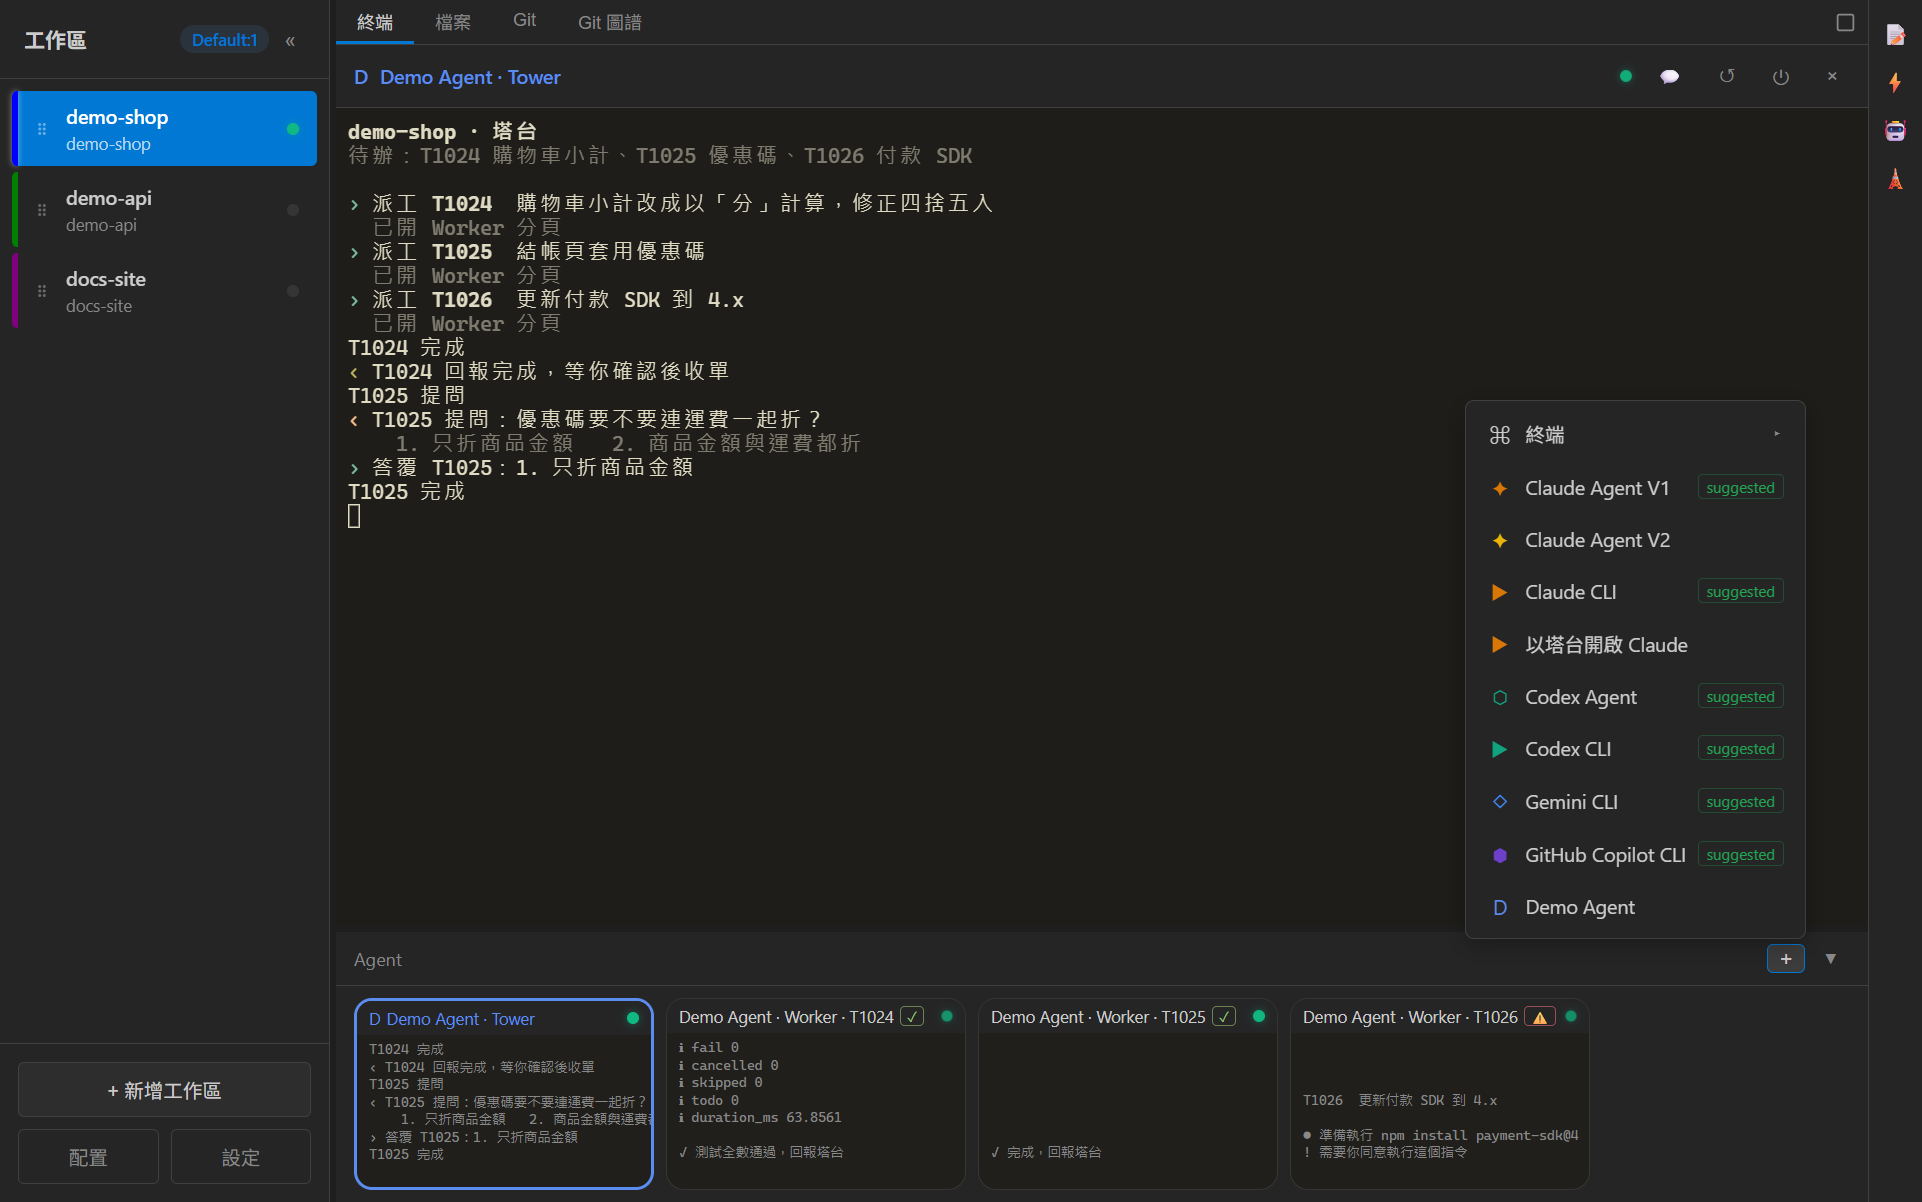
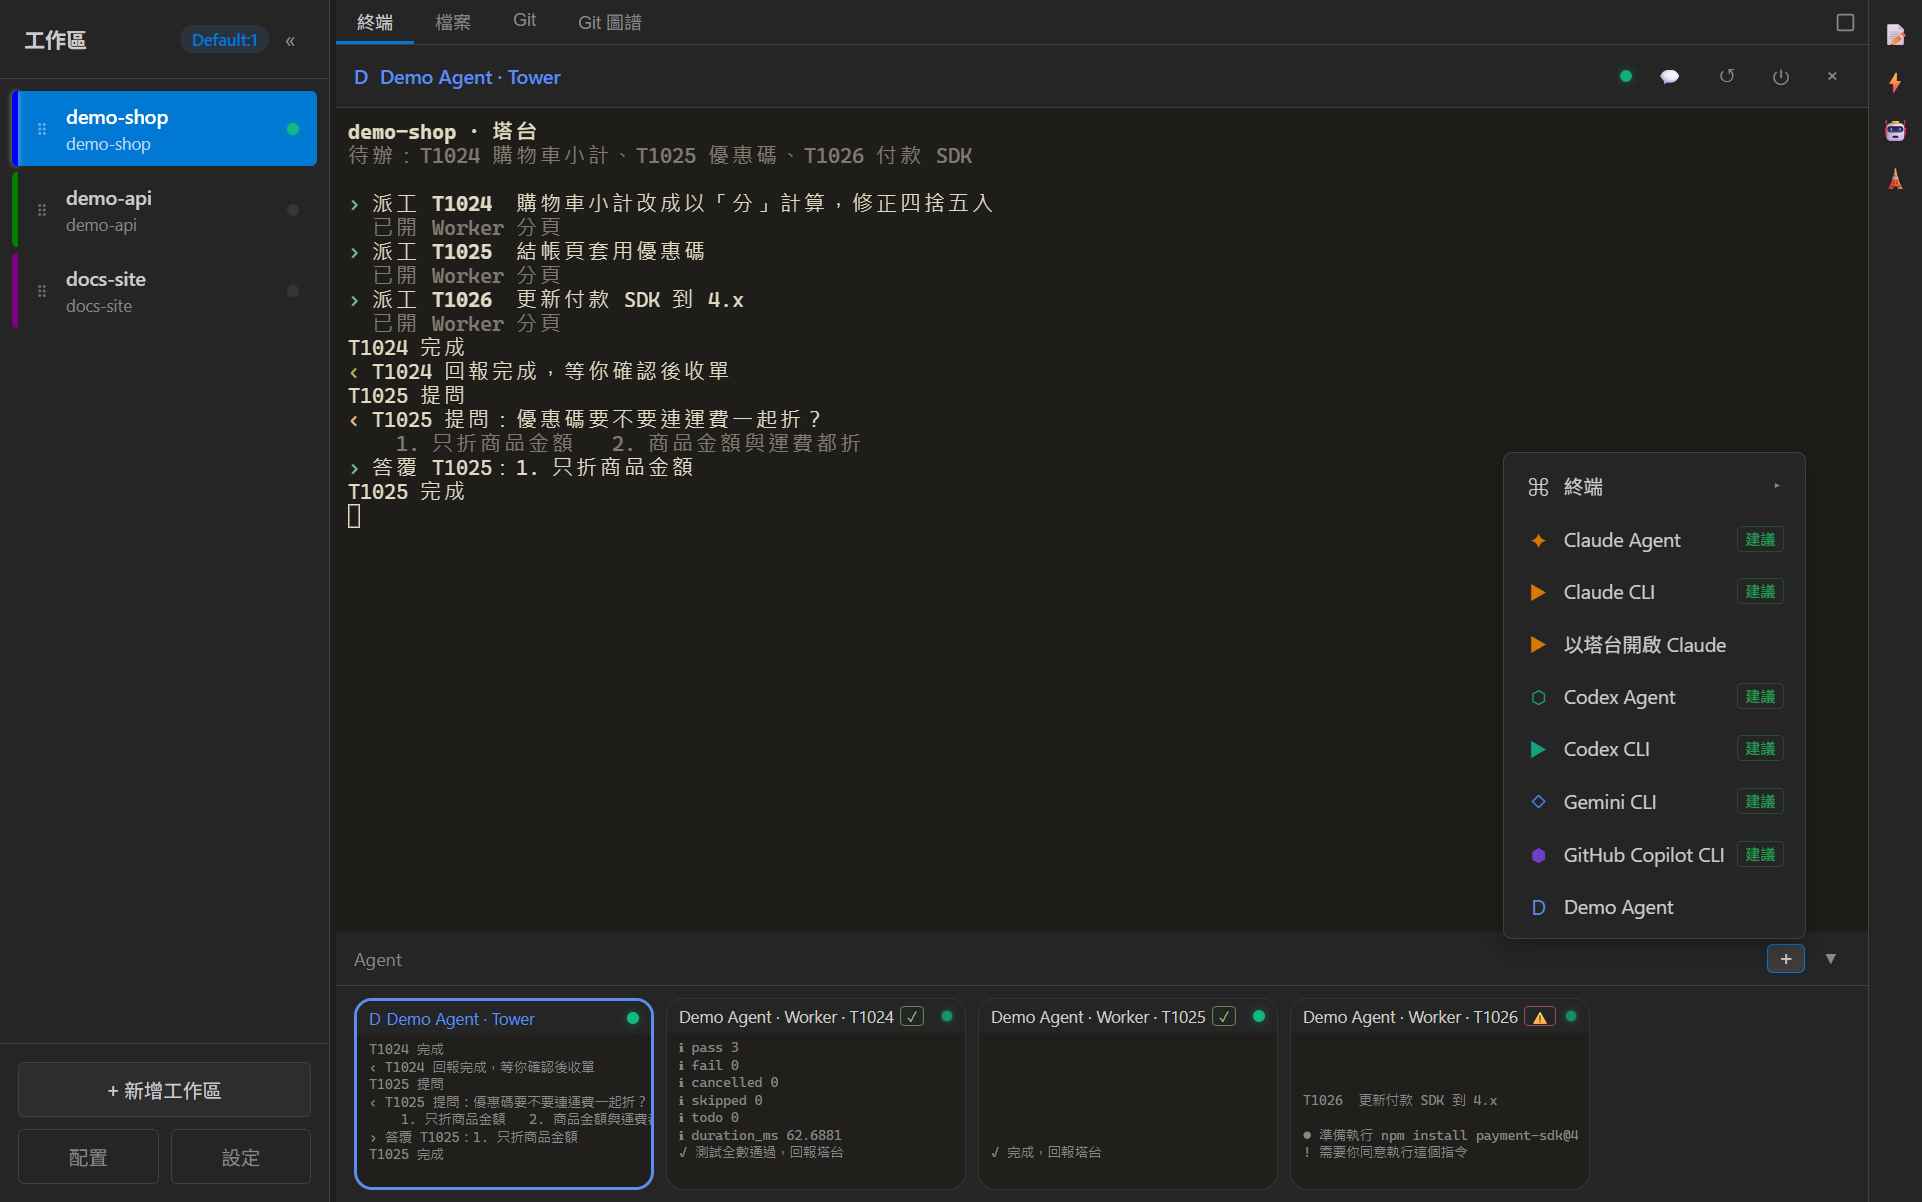
docs: CHANGELOG Unreleased entry for the Claude Agent rename, retake agents-menu screenshot (T0723)

diff --git a/CHANGELOG.md b/CHANGELOG.md
@@ -4,6 +4,9 @@ All notable changes to Better Agent Terminal are documented in this file.
 
 ## [Unreleased]
 
+### Changed
+- 「Claude Agent V1」改名為「Claude Agent」（worktree 版為「Claude Agent (Worktree)」），V2 下架後不再需要版本號（T0722 / D194）。舊分頁的預設標題（`Claude Agent V1`、`Claude Agent V2`、`Claude Agent V1 (Worktree)`）開啟時自動改成新名稱，自己改過的標題不動
+
 ## [0.7.2-pre.5] — 2026-11-01
 
 ### Removed
